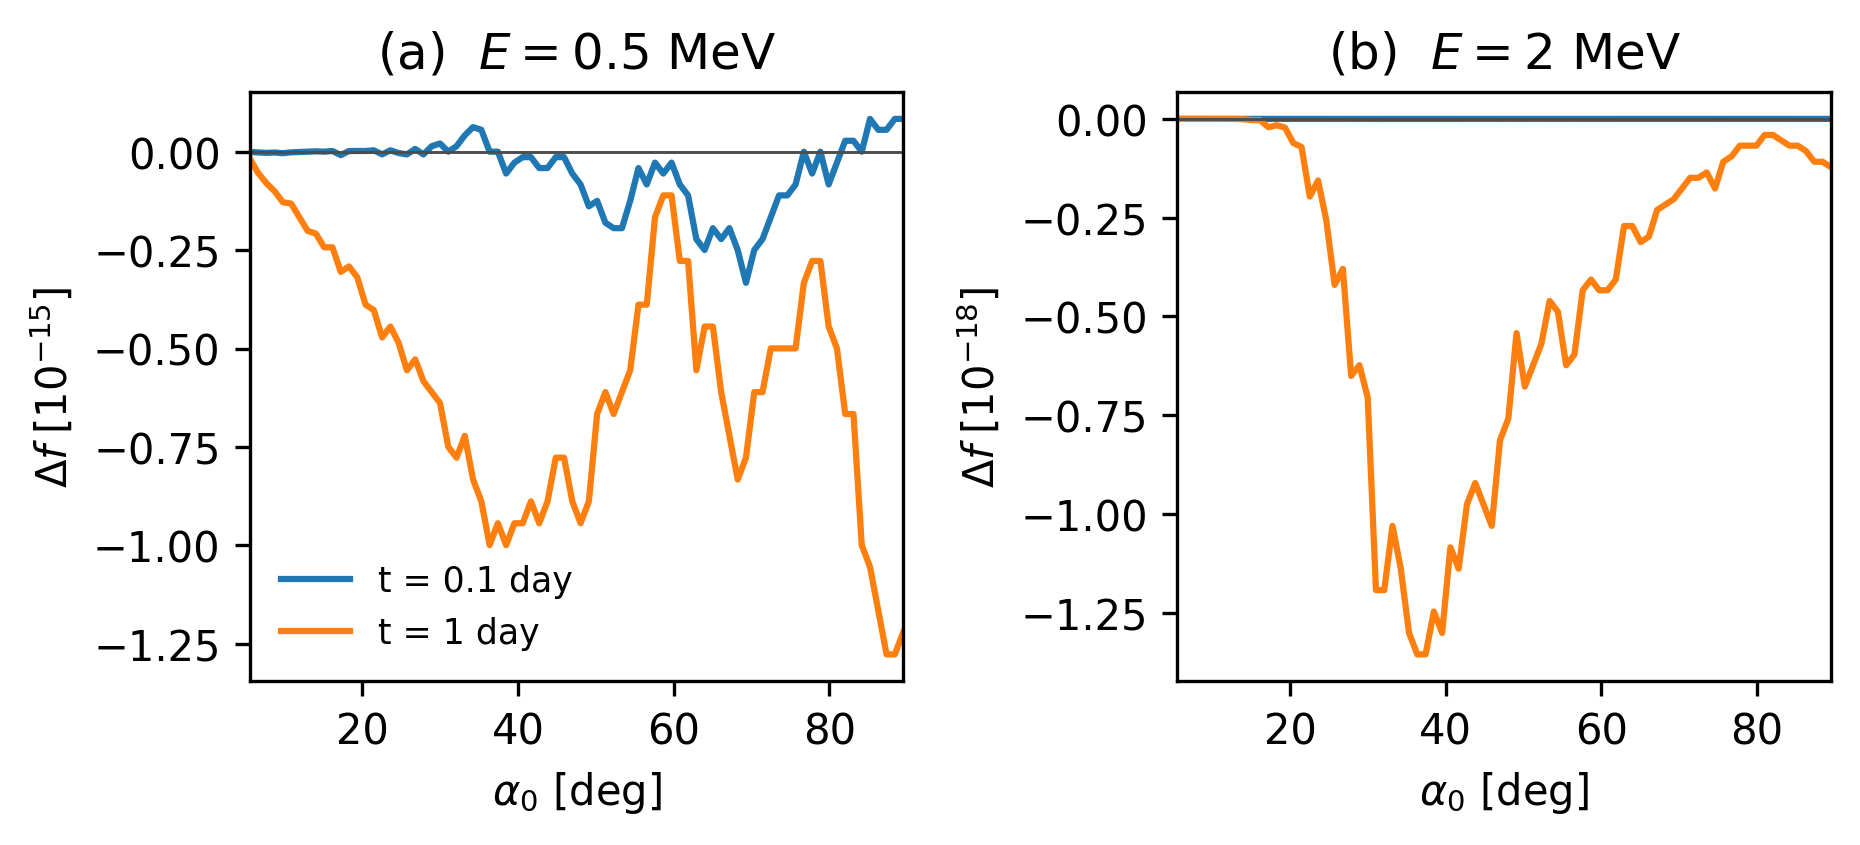
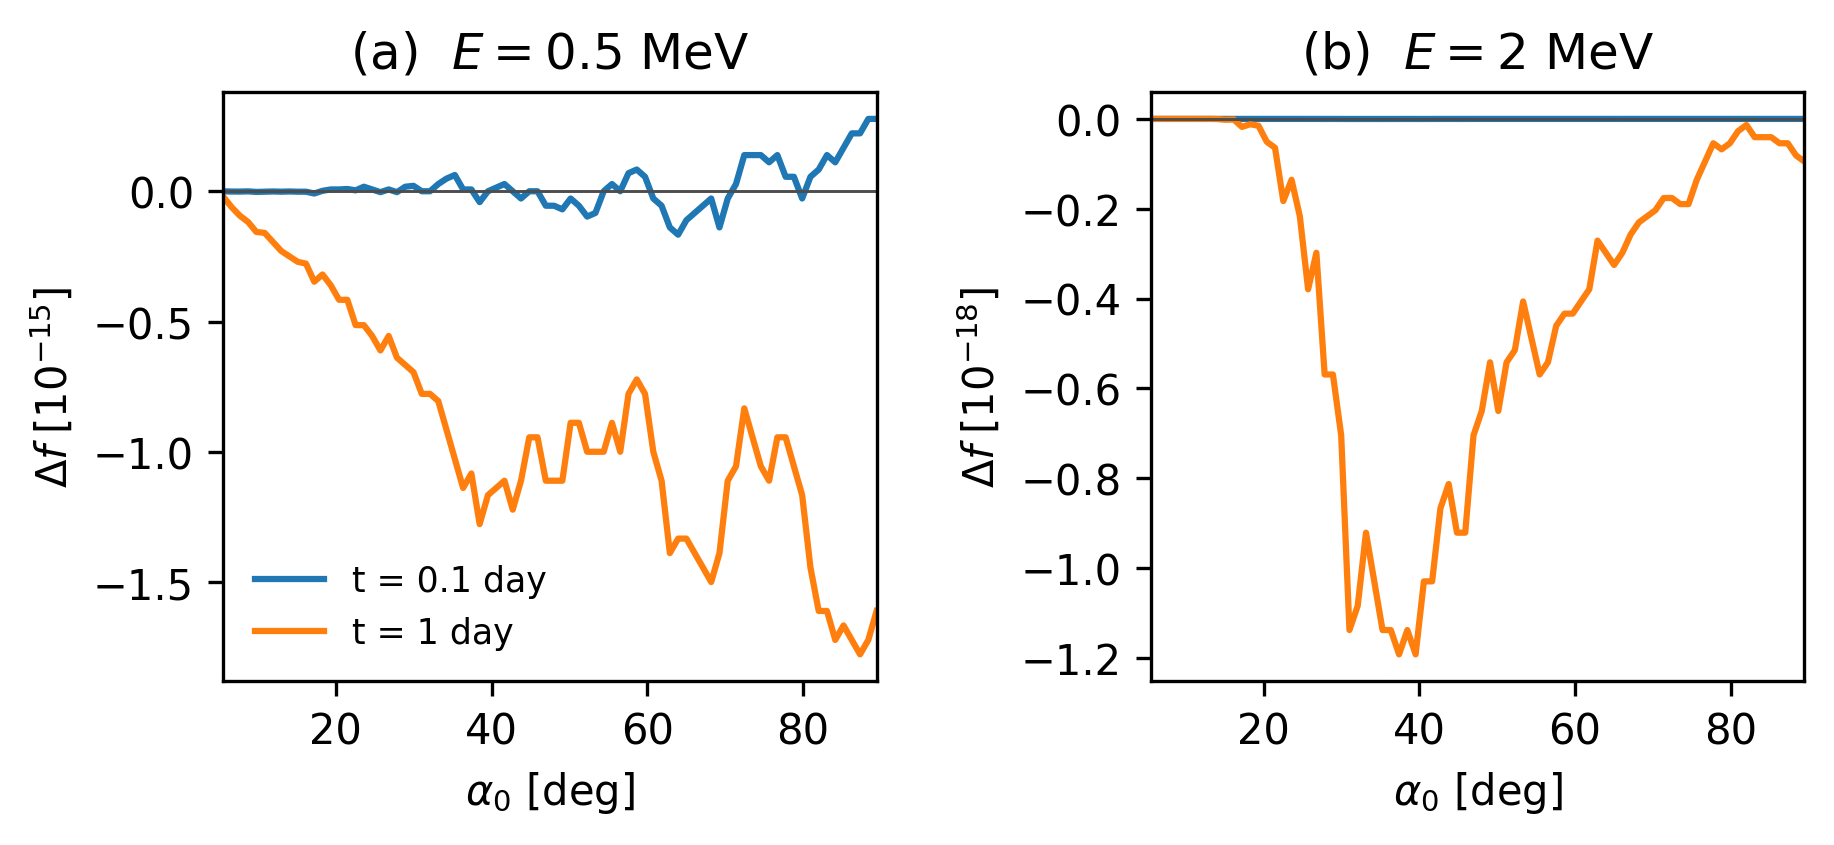
rename standalone CLI to sayram2d and document 3D slices

diff --git a/src/app/main.cc b/src/app/main.cc
@@ -1,6 +1,6 @@
 // Standalone SAYRAM2D Albert-Young simulation application.
 //
-// Usage: sayram2d_app [config.ini]
+// Usage: sayram2d [config.ini]
 // The default configuration path is app.ini, resolved from the current
 // working directory.
 
@@ -108,7 +108,7 @@ int main(int argc, char** argv) {
               << config.n_frames << " dt=" << config.dt << " days\n";
     return 0;
   } catch (const std::exception& error) {
-    std::cerr << "sayram2d_app: " << error.what() << "\n";
+    std::cerr << "sayram2d: " << error.what() << "\n";
     return 1;
   }
 }

diff --git a/README.md b/README.md
@@ -20,12 +20,13 @@ application, not by the library.
 
 ```bash
 make app
-./build/sayram2d/sayram2d_app [config.ini]
+./sayram2d [config.ini]
 ```
 
 The command-line argument is an optional INI path. If omitted, the app uses
 `app.ini` in the current working directory. There are no other command-line
 options. Relative paths in the INI resolve against the working directory.
+`make app` writes the executable to `./sayram2d`, next to `app.ini`.
 
 The standalone app requires the HDF5 C headers and library. The Makefile
 detects Homebrew HDF5 with `brew --prefix hdf5`; override `HDF5_INCLUDE`,
@@ -36,8 +37,11 @@ With CMake:
 ```bash
 cmake -S . -B build-cmake
 cmake --build build-cmake
-./build-cmake/sayram2d_app app.ini
+./sayram2d app.ini
 ```
+
+The CMake target is `sayram2d_cli`; its output name is `sayram2d` and it is
+placed at the repository root, next to `app.ini`.
 
 ### Configuration expected by the app
 
@@ -242,6 +246,41 @@ auto view = make_view2d(data.data() + 1, n1, n2, n2 * 2, 2);
 
 The optional `container_adapter.h` provides `make_view2d(container)` for
 xtensor-like 2-D containers; the core does not include xtensor.
+
+### Using the solver from a 3D code
+
+If a 3D caller stores fields with the slice index fastest, for example
+`volume[(i*n2 + j)*n3 + k]`, each 2D layer is an explicit strided view:
+
+```cpp
+const std::size_t n3 = 8;
+std::vector<double> G(n1 * n2 * n3, 1.0);
+std::vector<double> D11(n1 * n2 * n3, 1.0);
+std::vector<double> D12(n1 * n2 * n3, 0.0);
+std::vector<double> D22(n1 * n2 * n3, 1.0);
+std::vector<double> f(n1 * n2 * n3);
+std::vector<double> f_next(n1 * n2 * n3);
+
+auto layer = [&](std::vector<double>& values, std::size_t k) {
+  return make_view2d(values.data() + k, n1, n2,
+                     static_cast<std::ptrdiff_t>(n2 * n3),
+                     static_cast<std::ptrdiff_t>(n3));
+};
+
+Mesh mesh(q1_edges, q2_edges);   // shared q1/q2 grid
+BoundaryConditions bc;           // shared or per-layer; caller-owned
+Solver solver(mesh);
+
+for (std::size_t k = 0; k < n3; ++k) {
+  Equation equation(layer(G, k), layer(D11, k), layer(D12, k),
+                    layer(D22, k), bc);
+  solver.solve(equation, layer(f, k), layer(f_next, k), dt);
+}
+```
+
+The view stores the explicit strides; no 3D container is copied or
+interpreted by the library. `Solver` is reusable across sequential layers with
+the same mesh. Use a separate `Solver` instance for concurrent solves.
 
 ### Example driver
 
